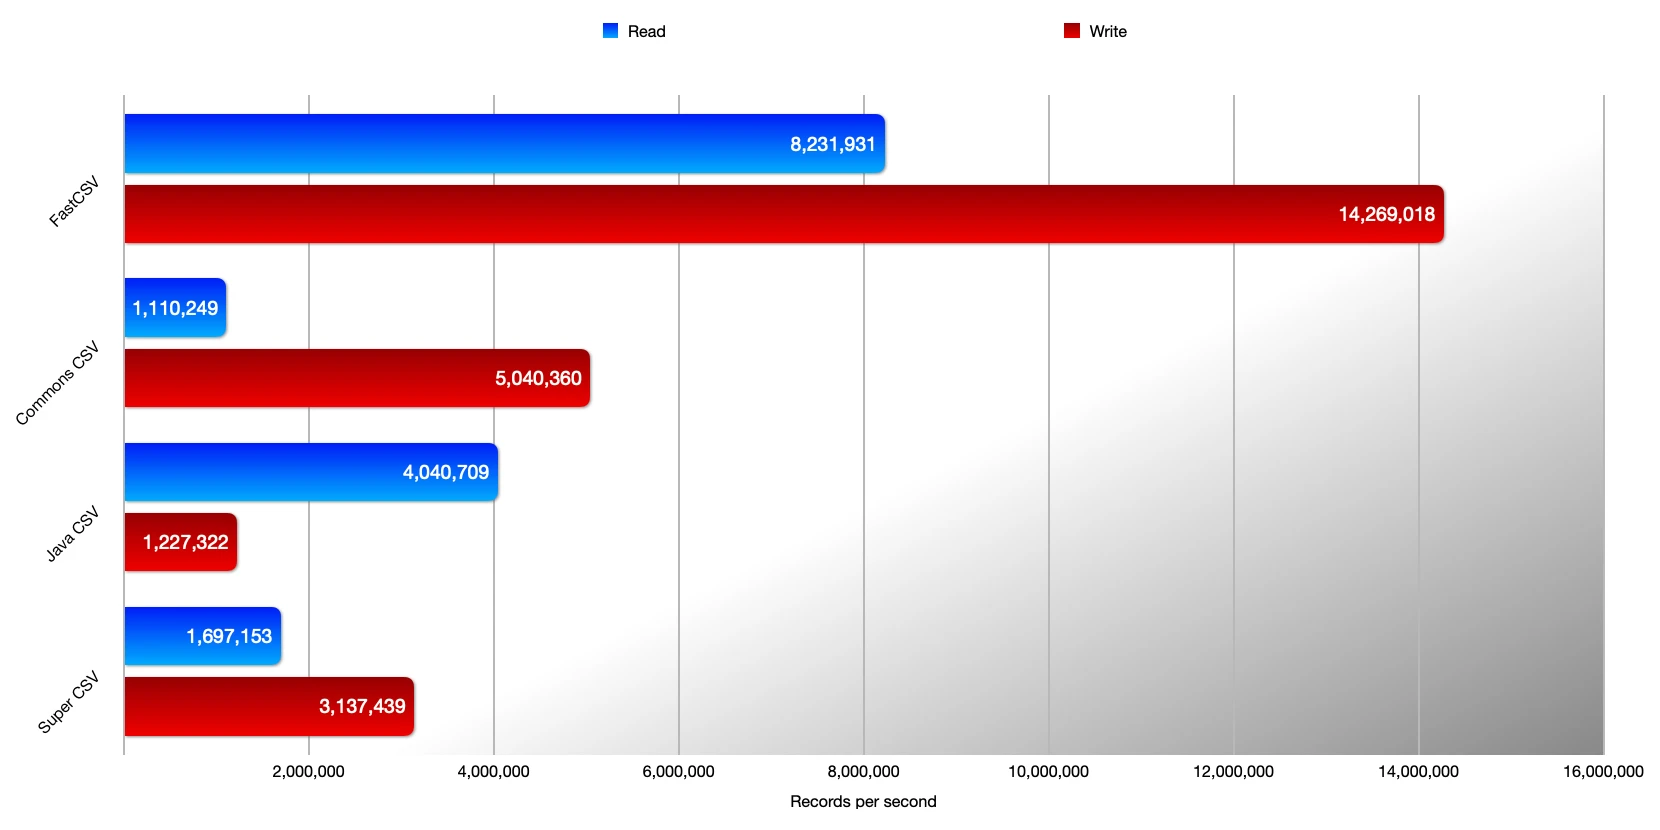
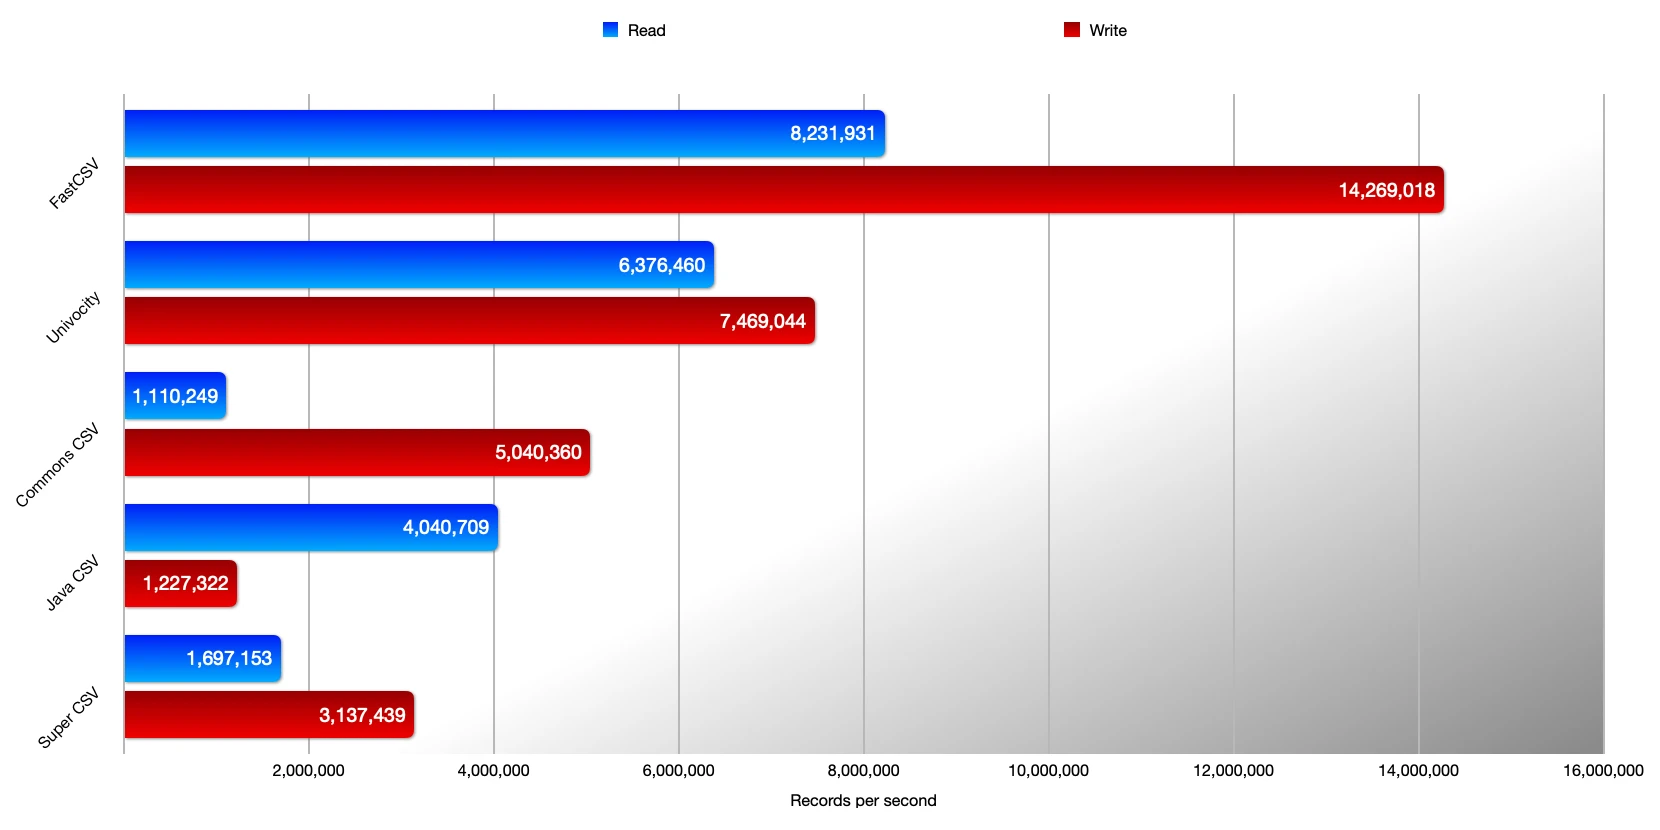
extend benchmark

diff --git a/README.md b/README.md
@@ -23,10 +23,10 @@ The primary use cases of FastCSV include:
 
 ## Benchmark & Compatibility
 
-A selected benchmark from the
-[Java CSV library benchmark suite](https://github.com/osiegmar/JavaCsvBenchmarkSuite) project:
-
 ![Benchmark](benchmark.webp "Benchmark")
+
+> [!NOTE]
+> This selected benchmark is based on the [Java CSV library benchmark suite](https://github.com/osiegmar/JavaCsvBenchmarkSuite)
 
 While maintaining high performance, FastCSV serves as a strict RFC 4180 CSV writer while
 also exhibiting the ability to read somewhat garbled CSV data.
